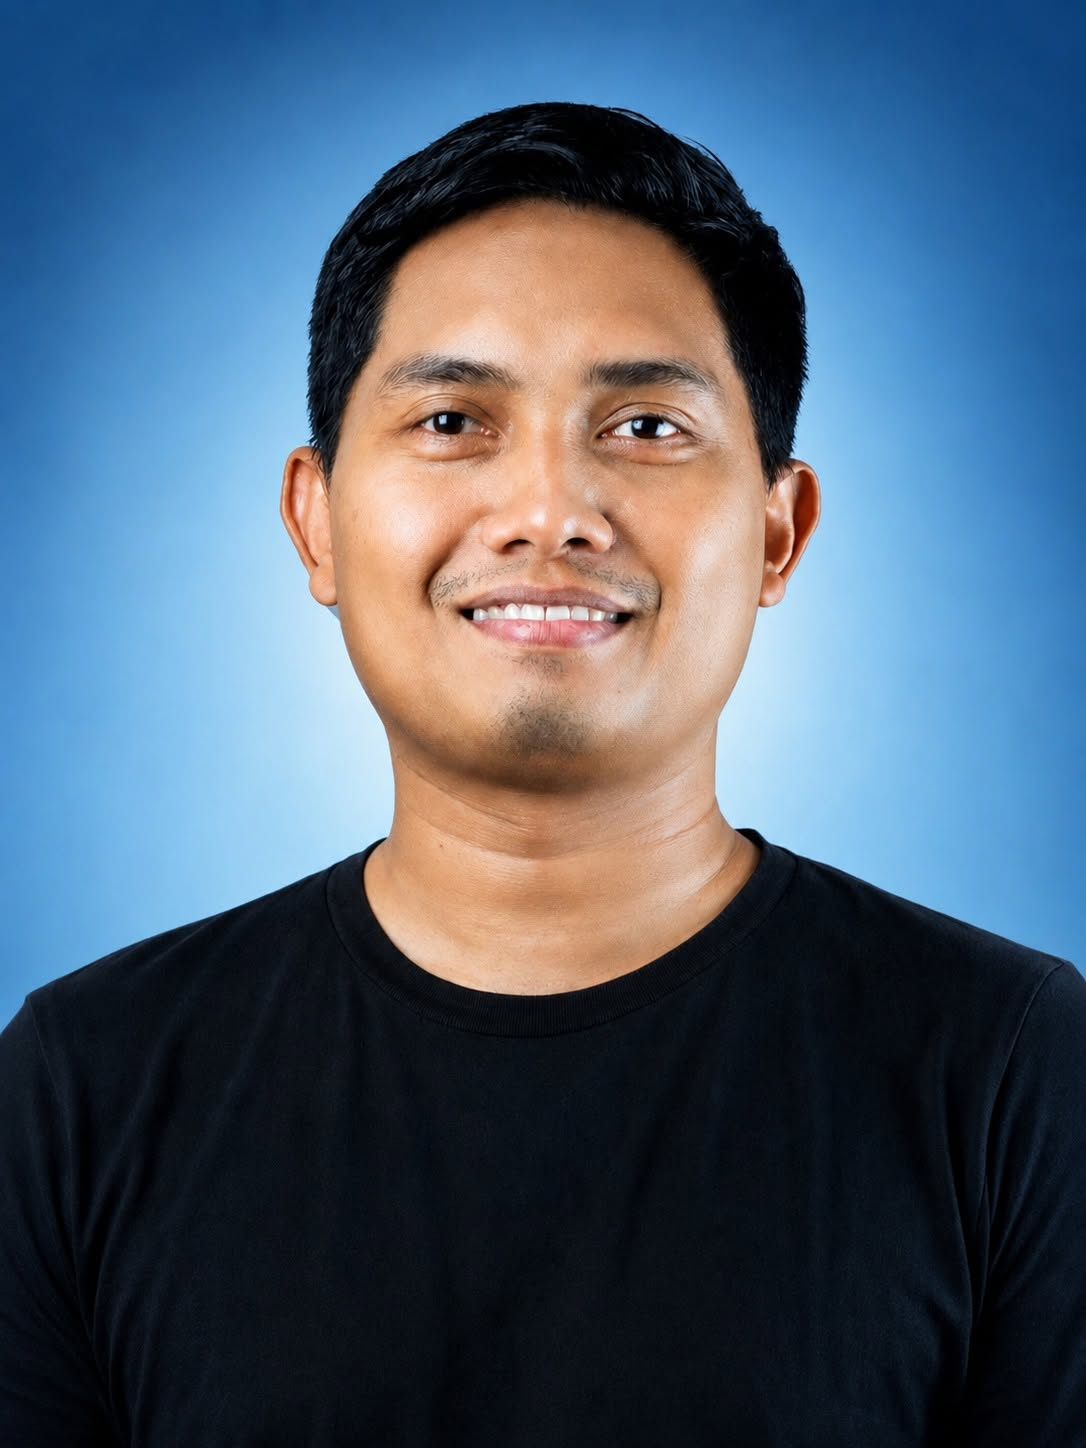
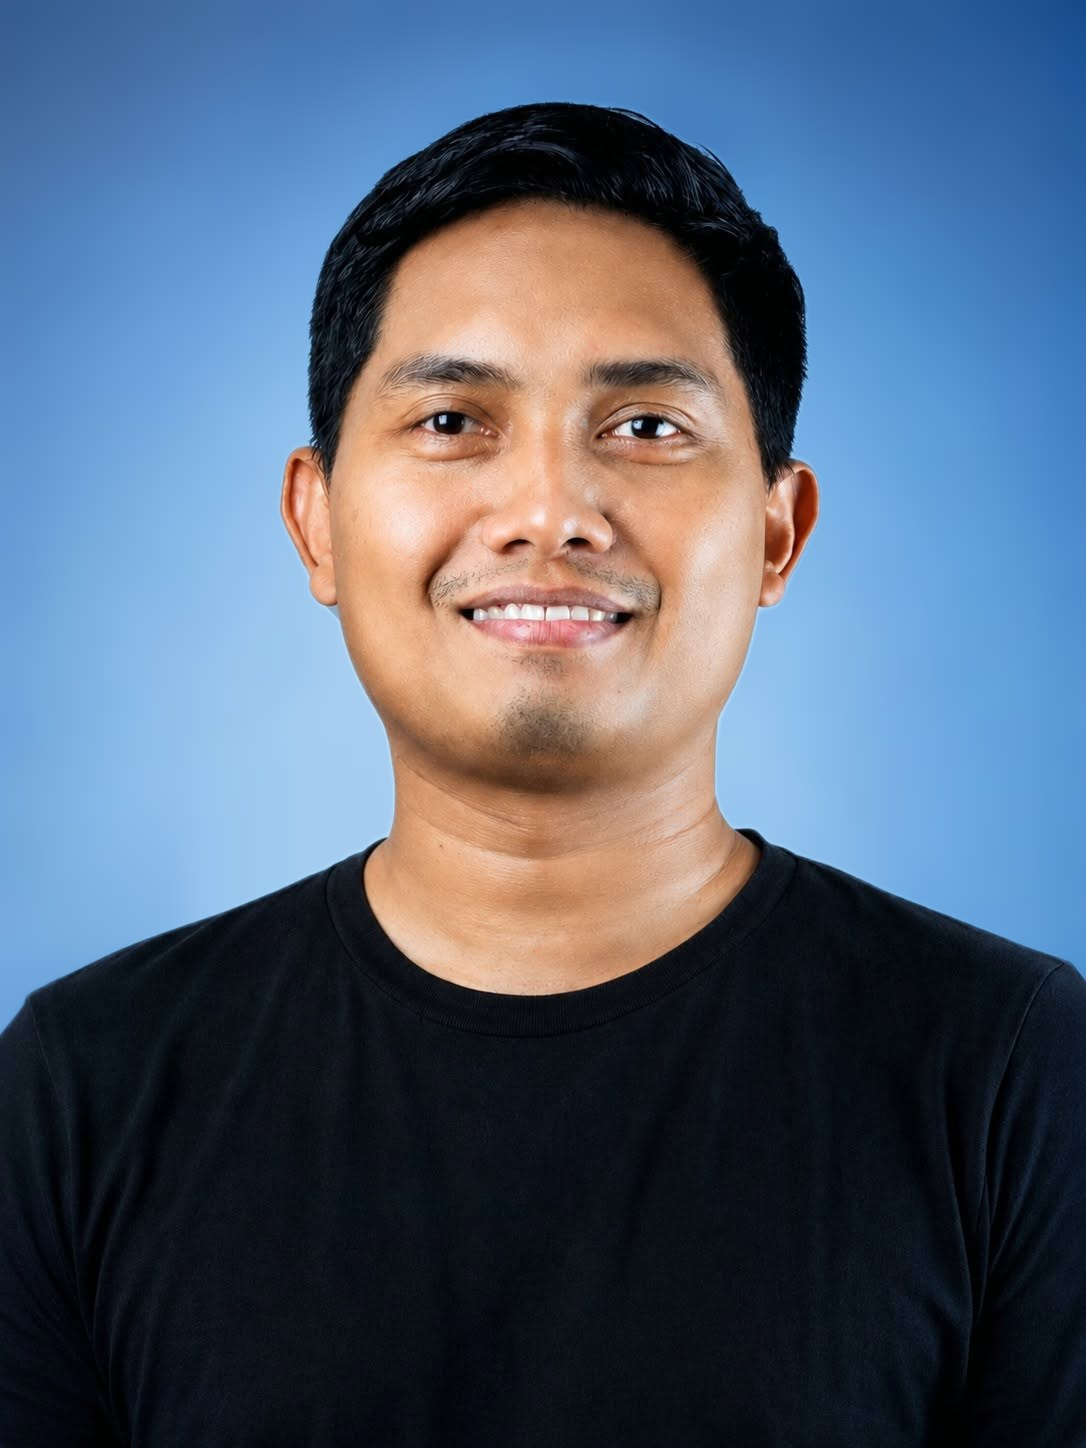
content: unify speaker photo backgrounds and drop the two replaced portraits

diff --git a/apps/web/src/content/site.ts b/apps/web/src/content/site.ts
@@ -168,7 +168,7 @@ export const plenarySpeakers = [
     institution:
       "Minister of Higher Education, Science and Technology · Bandung Institute of Technology, Indonesia",
     topic: null,
-    photo: "/photos/speakers/plenary/Picture1.png",
+    photo: "/photos/speakers/plenary/Picture1.jpg",
     bio: [
       "He is a Professor in advanced functional materials, specialized in nanomaterials and biosensors, from the Bandung Institute of Technology. He graduated in 1999 from the Department of Engineering Physics ITB, and earned his M.Sc. (2002) and Ph.D. (2005) in Quantum Engineering and System Science from the University of Tokyo, Japan. His research focuses on the development of nanotechnology-based sensors for detecting hazardous gases, environmental pollutants, and diagnosing diseases like cancer, hepatitis, and dengue fever. He has authored over 326 publications in international journals indexed by Scopus, with an h-index of 43. He received the Habibie Prize in 2024, a recognition as the top researcher in Nanoscience & Nanotechnology in Indonesia in 2023, and was listed among the world's top 2% of scientists in 2024. He was named the best researcher at ITB in 2021 and received the outstanding lecturer award in Science and Technology at ITB in 2017.",
       "Since 2025, he has been appointed as Minister of Higher Education, Science, and Technology. Previously he served as the Vice Rector of Research and Innovation, as the Dean of the Faculty of Industrial Technology, and as the Head of the Engineering Physics Department of the Bandung Institute of Technology.",
@@ -198,7 +198,7 @@ export const speakers = [
     role: "Keynote",
     institution: "University Southampton, UK",
     topic: null,
-    photo: "/photos/speakers/keynotes/Picture3.png",
+    photo: "/photos/speakers/keynotes/Picture3.jpg",
     bio: [
       "Prof. Senthil Murugan Ganapathy received his Ph.D. (Photonic Materials) in 2001 from the Indian Institute of Science, Bangalore. He worked as a post-doctoral fellow from 2001 to 2005 at the University of Bordeaux, France, and the Toyota Technological Institute, Japan. He joined the Optoelectronics Research Centre at the University of Southampton in April 2005, where he is currently a Professor and Head of the Integrated Photonic Devices Group, and Deputy Head of School (ORC) for Education. He is also an Adjunct Professor at the Indian Institute of Technology Madras, Chennai, India.",
       "His expertise and research interests range from photonic materials to photonic systems, with a current focus on Mid-IR/high-contrast materials and devices for biomedical sensing, on-chip spectroscopy, on-chip nanoscopy, environmental monitoring and optical communication applications. He has made pioneering contributions in the field of novel optical micro-resonators.",
@@ -210,7 +210,7 @@ export const speakers = [
     role: "Keynote",
     institution: "NYU Abu Dhabi, UAE",
     topic: null,
-    photo: "/photos/speakers/keynotes/Picture4.png",
+    photo: "/photos/speakers/keynotes/Picture4.jpg",
     bio: [
       "Prof. Azhar Zam is an Associate Professor of Bioengineering. He holds a B.S. from the University of Indonesia, an M.Sc. from the University of Luebeck, Germany, and a Ph.D. from Friedrich-Alexander-University Erlangen-Nuremberg, Germany.",
       "Zam's research interests focus on the development of smart devices for medical imaging, diagnostics, and monitoring using novel optical technologies, which include smart laser surgery, optical coherence tomography (OCT), photoacoustics, biomedical spectroscopy, AI-aided optical diagnostics and imaging, optical-based smart biosensors, and miniaturized systems. He has written over 85 peer-reviewed articles and book chapters, and books, and holds several patents.",
@@ -223,7 +223,7 @@ export const speakers = [
     role: "Keynote",
     institution: "CSIR-National Chemical Laboratory, Pune, India",
     topic: null,
-    photo: "/photos/speakers/keynotes/Picture5.png",
+    photo: "/photos/speakers/keynotes/Picture5.jpg",
     bio: [
       "Dr.-Ing. Rajesh Kanawade is the head of the Hydrogen Engineering & Photonics Sensor Group, under the Physical and Materials Chemistry Division, CSIR–National Chemical Laboratory (CSIR-NCL), Pune, India. He obtained his M.Sc. in Physics (2006) from Savitribai Phule Pune University and his Doctor of Engineering (Dr.-Ing.) in 2013 from Friedrich-Alexander University Erlangen–Nürnberg, Germany.",
       "His interdisciplinary research integrates optics, photonics, spectroscopy, biomedical imaging, laser instrumentation, Raman spectroscopy, laser-induced breakdown spectroscopy (LIBS), fiber-optic sensing, and optical diagnostics for healthcare and industrial applications. His work has produced important advances in biomedical spectroscopy and laser-based sensing technologies and has been published in leading journals in photonics and biophotonics.",
@@ -235,7 +235,7 @@ export const speakers = [
     role: "Keynote",
     institution: "UniversityChulalongkorn, Thailand",
     topic: null,
-    photo: "/photos/speakers/keynotes/Picture6.png",
+    photo: "/photos/speakers/keynotes/Picture6.jpg",
     bio: [
       "Associate Prof. Dr. Piyasak Chaumpluk is currently a faculty member at the Genetics Program, Department of Botany, Faculty of Science, Chulalongkorn University, where he also serves as the Head of the Laboratory of Plant Transgenic Technology and Biosensor. His research integrates plant science and genetics with cutting-edge biosensor technology to address challenges in agriculture and biosciences.",
       "He finished his B.Sc. at Khon Kaen University, and earned his Master of Agriculture (Plant Pathology) in 1990 and his Doctor of Agriculture (1996), both from Kyoto University. Prior to his current position, he gained valuable international experience as a Researcher at the Iwate Biotechnology Research Center in Japan, where he worked for three years.",
